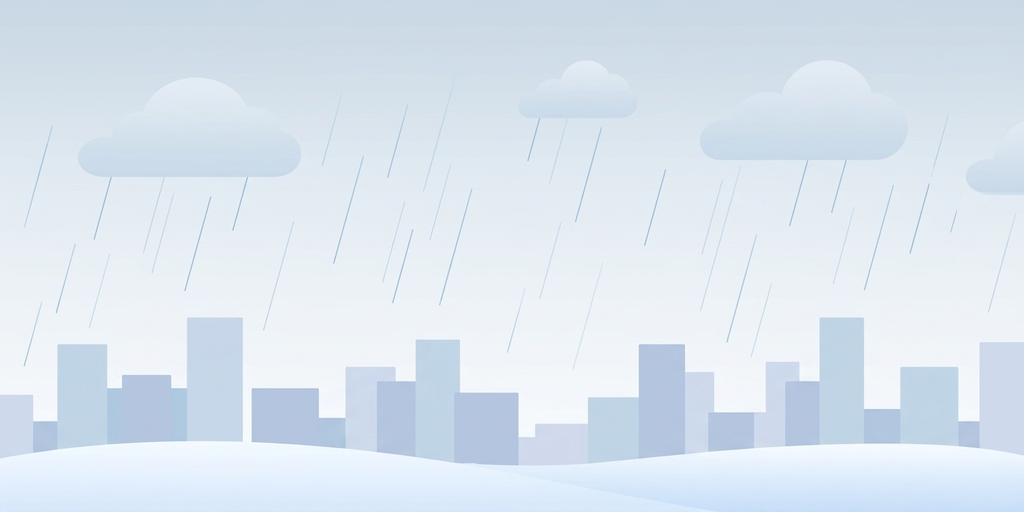
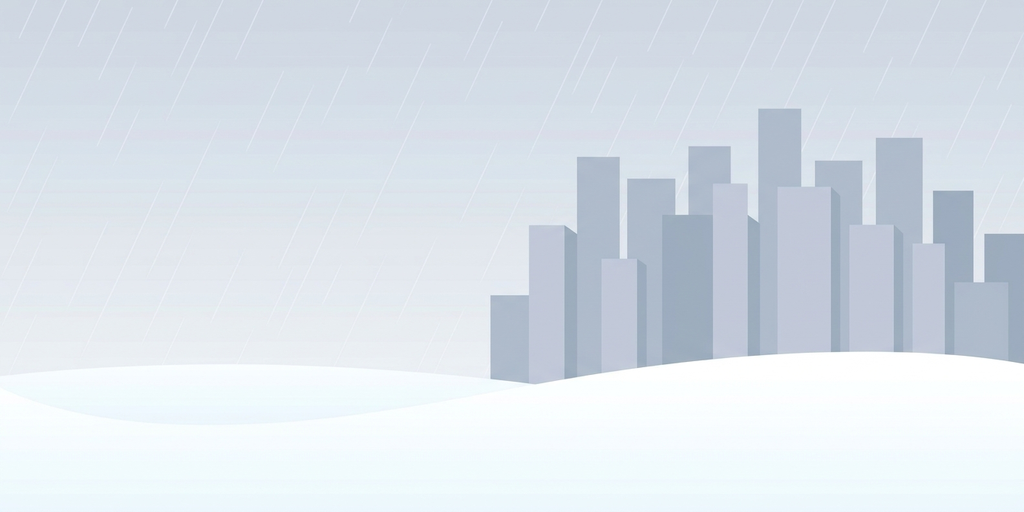
miniapp: weather backgrounds v10 (city-right style, all 20)

diff --git a/miniapp/static/index.html b/miniapp/static/index.html
@@ -243,6 +243,6 @@
 <body class="min-h-screen font-sans antialiased">
   <div id="root"></div>
 
-    <script src="vendor/app.compiled.js?v=9"></script>
+    <script src="vendor/app.compiled.js?v=10"></script>
 </body>
 </html>
